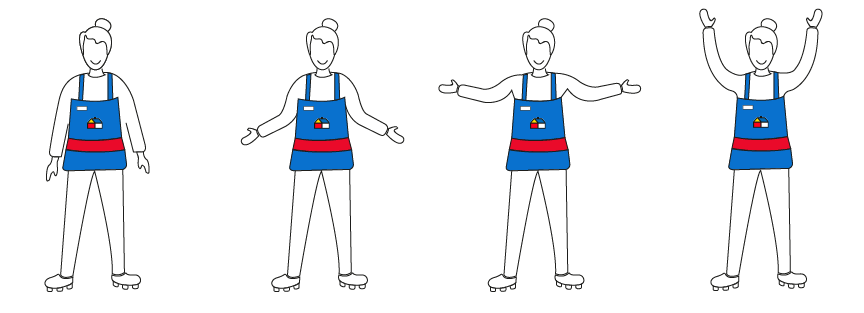
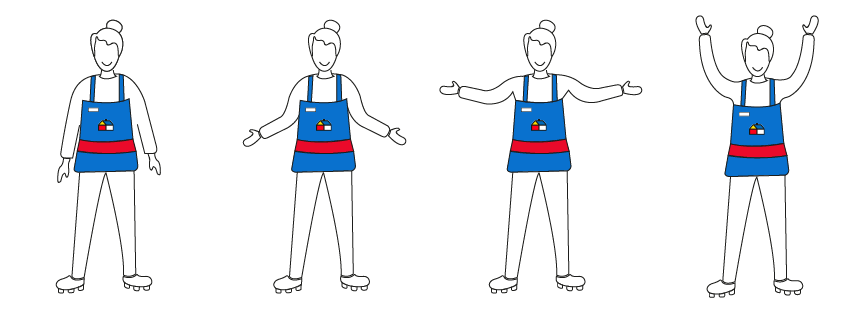
actualizacion de animacion

diff --git a/sass/_main.scss b/sass/_main.scss
@@ -1,11 +1,15 @@
 
+main{
+    background-color: $color-fondo-main;
+}
+
 /*------------------ANIMACION------------------*/
 
 .animacion{
-    width: 195px;
-    height: 285px;
+    width: 216.5px;
+    height: 313px;
     background: url("../Imagenes/Ilustracion.png");
-	animation: ilustracion 2s steps(4) infinite;
+	animation: ilustracion 1.5s steps(4) infinite;
 	animation-direction: reverse;
 	position: relative;
 	left: 8px;
@@ -27,7 +31,7 @@
 	border-radius: 50%;
 	animation: fondoIlustracion 2s infinite;
 	position: absolute;
-	top: 100px;
+	top: 110px;
 	left: 30px;
 }
 
@@ -43,6 +47,7 @@
 }
 
 /*------------------SECCION INDEX------------------*/
+
 .divMainIndex{
 	position: relative;
 	padding-top: 50px;

diff --git a/css/estilo.css b/css/estilo.css
@@ -85,12 +85,18 @@ nav {
   display: flex;
   flex-direction: row; }
 
+.contenedor {
+  height: 350px; }
+
+main {
+  background-color: #E9F5FF; }
+
 /*------------------ANIMACION------------------*/
 .animacion {
-  width: 195px;
-  height: 285px;
+  width: 216.5px;
+  height: 313px;
   background: url("../Imagenes/Ilustracion.png");
-  animation: ilustracion 2s steps(4) infinite;
+  animation: ilustracion 1.5s steps(4) infinite;
   animation-direction: reverse;
   position: relative;
   left: 8px; }
@@ -108,7 +114,7 @@ nav {
   border-radius: 50%;
   animation: fondoIlustracion 2s infinite;
   position: absolute;
-  top: 100px;
+  top: 110px;
   left: 30px; }
 
 @keyframes fondoIlustracion {

diff --git a/index.html b/index.html
@@ -222,12 +222,14 @@
 				<iframe width="560" height="315" src="https://www.youtube.com/embed/OX-us7PEfkc" frameborder="0" allow="accelerometer; autoplay; clipboard-write; encrypted-media; gyroscope; picture-in-picture" allowfullscreen></iframe>
 			-->
 		</div>	
-	</main>
-		
+
 		<div>
 			<h3> Audio Jingle</h3>
 			<audio src="video/Jinglesodimac.mp3" preload="auto" controls></audio>
 		</div>
+	</main>
+		
+		
 		
 	<footer>
 		<div class="containerFooter">

diff --git a/sass/_variable.scss b/sass/_variable.scss
@@ -1,13 +1,13 @@
-$color-principal: rgb(0,113,206);
-$color-secundario: rgb(234, 0, 41);
-$color-terciario: rgb(255,217,0); 
+$color-principal: #0071ce;
+$color-secundario: #ea0029;
+$color-terciario: #ffd900; 
 $color-texto-fondoazul: #FFFFFF;
 
 $fuente-principal: 'Poppins', sans-serif;
 $fuente-secundaria: 'Arenas movedizas', sans-serif;
 
 $color-fondo-footer: #54565A;
-$color-gradiente-fondo: #e2e2e2;
+$color-fondo-main: #E9F5FF;
 
 
 

diff --git a/sass/_header.scss b/sass/_header.scss
@@ -9,10 +9,14 @@
 
 /*------------------HEADER------------------*/
 
+
 nav{
 	display: flex;
 	flex-direction: row;
 
 }
 
+.contenedor{
+	height: 350px;
+}
 
